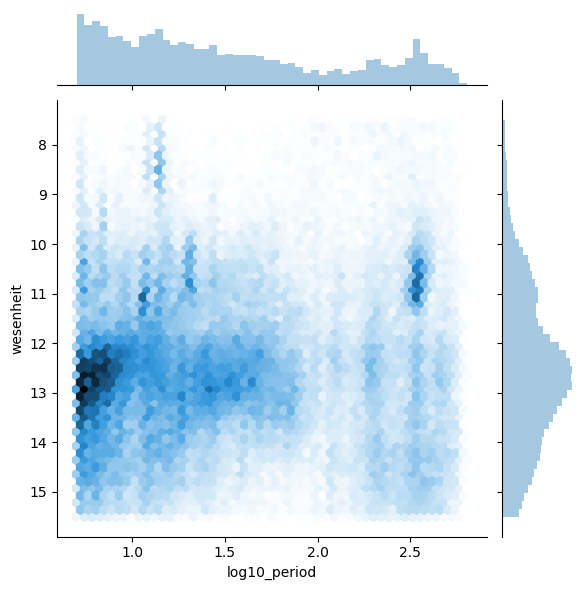
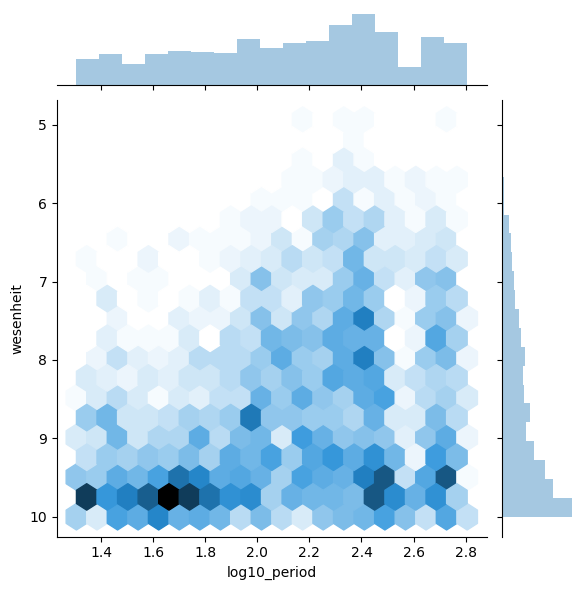
Tried a plot from the 2013 ogle lpv paper

diff --git a/High Certainty Stars/red variable testing.py b/High Certainty Stars/red variable testing.py
@@ -5,14 +5,17 @@ import glob
 import os
 import seaborn as sns
 
-makePlot = False
+makePlot = True
+plotGraph = False
 files = 'resultsLikely.csv'
 
 highAmpData = pd.read_csv(files,skiprows=13,sep=',')
 
 likelihood_clipped = highAmpData[highAmpData['kFi2']/highAmpData['faPcorrelation2'] > 1]
-likelihood_clipped = likelihood_clipped[likelihood_clipped['wesenheit'] > 7.5]
-likelihood_clipped = likelihood_clipped[likelihood_clipped['wesenheit'] < 15.5]
+likelihood_clipped = likelihood_clipped[likelihood_clipped['wesenheit'] > 0]
+likelihood_clipped = likelihood_clipped[likelihood_clipped['wesenheit'] < 10]
+# likelihood_clipped = likelihood_clipped[likelihood_clipped['wesenheit'] > 7.5]
+# likelihood_clipped = likelihood_clipped[likelihood_clipped['wesenheit'] < 15.5]
 
 #######################################################
 ## There is a concerning negative value of this flag ##
@@ -25,29 +28,46 @@ likelihood_clipped = likelihood_clipped[likelihood_clipped['flagFbias7'] >= 1]
 
 print(highAmpData)
 
-for frequency in ['freqSTR','freqPDM','freqLSG']:
-    likelihood_clipped['period'] = np.ones(len(likelihood_clipped[frequency]))
-    likelihood_clipped['period'] = likelihood_clipped['period'].div(likelihood_clipped[frequency])
-    per_clipped = likelihood_clipped[likelihood_clipped['period'] > 5]
-    per_clipped['log10_period'] = np.log10(per_clipped['period'])
+if plotGraph:
+    for frequency in ['freqSTR','freqPDM','freqLSG']:
+        likelihood_clipped['period'] = np.ones(len(likelihood_clipped[frequency]))
+        likelihood_clipped['period'] = likelihood_clipped['period'].div(likelihood_clipped[frequency])
+        per_clipped = likelihood_clipped[likelihood_clipped['period'] > 20]
+        # per_clipped = likelihood_clipped[likelihood_clipped['period'] > 5]
+        per_clipped['log10_period'] = np.log10(per_clipped['period'])
 
-    print(per_clipped)
+        print(per_clipped)
 
-    g = sns.jointplot(x=per_clipped["log10_period"], y=per_clipped["wesenheit"], kind='hex')
-    plt.show()
+        g = sns.jointplot(x=per_clipped["log10_period"], y=per_clipped["wesenheit"], kind='hex')
+        g.ax_joint.invert_yaxis()
+        plt.show()
 
-    plt.scatter(x=per_clipped["log10_period"], y=per_clipped["wesenheit"], s=70, alpha=0.03)
-    plt.show()
+        plt.scatter(x=per_clipped["log10_period"], y=per_clipped["wesenheit"], s=70, alpha=0.03)
+        plt.gca().invert_yaxis()
+        plt.show()
+
+        g = sns.jointplot(x=per_clipped["log10_period"], y=per_clipped["wesenheit"], kind='kde', color="grey", space=0)
+        g.ax_joint.invert_yaxis()
+        plt.show()
 
 if makePlot:
-    g = sns.jointplot(x=per_clipped["log10_period"], y=per_clipped["wesenheit"], kind='kde', color="grey", space=0)
+    frequency = 'freqPDM'
+    likelihood_clipped['period'] = np.ones(len(likelihood_clipped[frequency]))
+    likelihood_clipped['period'] = likelihood_clipped['period'].div(likelihood_clipped[frequency])
+    per_clipped = likelihood_clipped[likelihood_clipped['period'] > 20]
+    per_clipped['log10_period'] = np.log10(per_clipped['period'])
+
+    plt.scatter(x=per_clipped["log10_period"], y=per_clipped["wesenheit"], s=70, alpha=0.1)
+    plt.gca().invert_yaxis()
+    plt.savefig('WesenheitVSPeriod Focused 3.png')
+    plt.show()
+
+    g = sns.jointplot(x=per_clipped["log10_period"], y=per_clipped["wesenheit"], kind='kde', space=0)
     g.ax_joint.invert_yaxis()
     g.savefig('WesenheitVSPeriod Focused.png')
+    plt.show()
 
     g = sns.jointplot(x=per_clipped["log10_period"], y=per_clipped["wesenheit"], kind='hex')
     g.ax_joint.invert_yaxis()
     g.savefig('WesenheitVSPeriod Focused 2.png')
-
-    plt.hexbin(per_clipped["log10_period"], per_clipped["wesenheit"], gridsize=(50,50))
-    plt.colorbar()
-    plt.savefig('WesenheitVSPeriod Focused 3.png')
+    plt.show()
